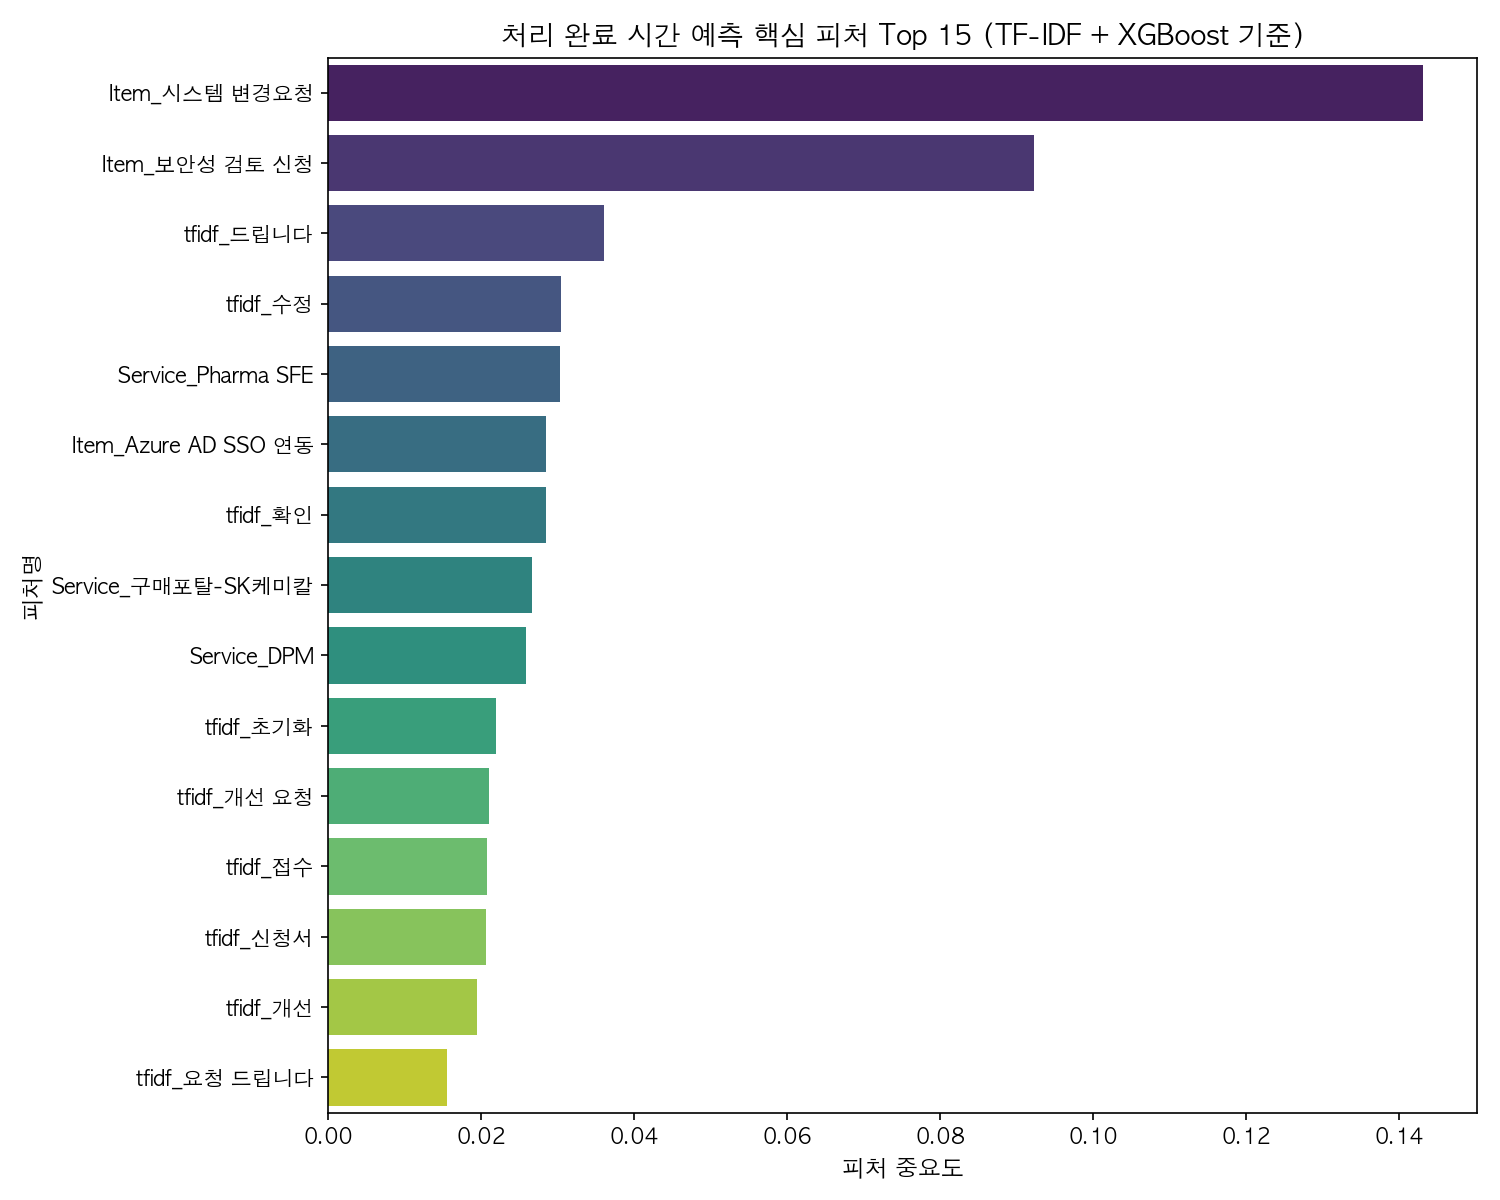
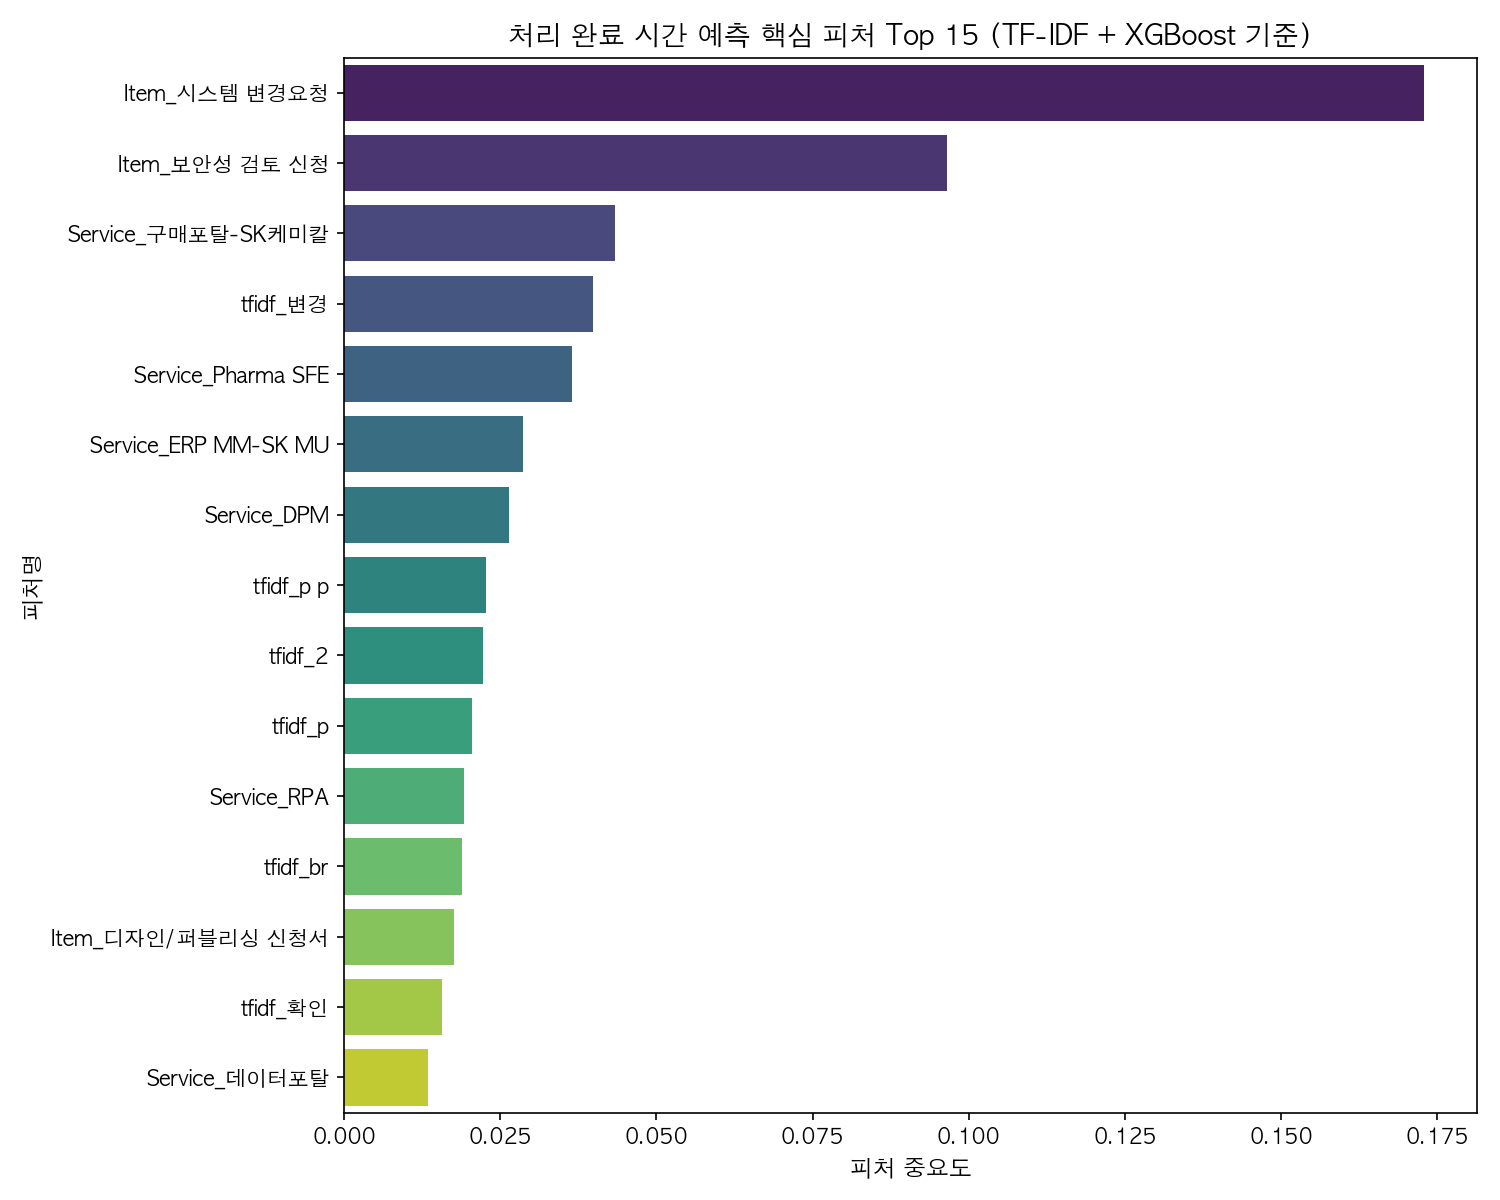
Refine item features and merge descriptions

diff --git a/config.py b/config.py
@@ -9,20 +9,13 @@ DATA_FILE = "sc_req_item.csv"
 # 노란색(정형)으로 선정한 컬럼입니다. 범주형/숫자형을 모두 넣을 수 있습니다.
 STRUCTURED_COLUMNS = [
     "Item",
-    "Service",
-    "State",
-    "Stage",
-    "Approval",
-    "Assignment group",
-    "Work time(Hour)",
-    "Updates",
+    "Service"
 ]
 
 # 주황색(비정형)으로 선정한 텍스트 컬럼입니다. 여러 컬럼은 공백으로 합쳐서 사용합니다.
 TEXT_COLUMNS = [
     "Short description",
-    "Description",
-    "HTML Description",
+    "merged_description",
 ]
 
 # 처리시간 타겟 생성에 사용할 원본 컬럼입니다.

diff --git a/data_loader.py b/data_loader.py
@@ -44,6 +44,12 @@ def load_and_split_data(
         raise FileNotFoundError(f"데이터 파일 '{file_path}'을 찾을 수 없습니다. 먼저 데이터를 준비해주세요.")
 
     df = pd.read_csv(file_path)
+    
+    # Description과 Common html description 컬럼을 하나의 컬럼으로 병합
+    df['merged_description'] = (
+        df['Description'].fillna('').astype(str) + ' ' + 
+        df['Common html description'].fillna('').astype(str)
+    )
 
     if duration_seconds_col in df.columns:
         duration_seconds = (

diff --git a/report_summary.md b/report_summary.md
@@ -4,8 +4,8 @@
 
 ## 0. 사용 컬럼
 
-* 정형(노란색) 컬럼: `Item, Service, State, Stage, Approval, Assignment group, Work time(Hour), Updates`
-* 비정형(주황색) 컬럼: `Short description, Description, HTML Description`
+* 정형(노란색) 컬럼: `Item, Service`
+* 비정형(주황색) 컬럼: `Short description, merged_description`
 * 타겟: 원본 `complte duration` 컬럼의 처리시간(seconds)을 사용합니다. 모델 내부에서는 hours로 변환해 학습하고, 결과는 초/분/시간 단위 MAE/RMSE로 해석합니다.
 
 ## 1. 모델별 성능 비교표
@@ -13,42 +13,42 @@
 | 모델 조합 | MAE (초/분/시간) | RMSE (초/분/시간) | R² Score (결정계수) | 학습시간 |
 | :--- | :---: | :---: | :---: | :---: |
 | **[TF-IDF 계열]** | | | | |
-| TF-IDF + Ridge | 529062초 / 8817.69분 (146.96시간) | 1149900초 / 19165.00분 (319.42시간) | 0.1992 | 0.4초 |
-| TF-IDF + Random Forest | 536595초 / 8943.24분 (149.05시간) | 1320311초 / 22005.18분 (366.75시간) | -0.0557 | 1.5초 |
-| TF-IDF + XGBoost | 541742초 / 9029.03분 (150.48시간) | 1251017초 / 20850.28분 (347.50시간) | 0.0522 | 3.0초 |
-| TF-IDF + LightGBM | 541010초 / 9016.83분 (150.28시간) | 1204230초 / 20070.49분 (334.51시간) | 0.1217 | 2.9초 |
+| TF-IDF + Ridge | 525191초 / 8753.18분 (145.89시간) | 1145826초 / 19097.10분 (318.29시간) | 0.2049 | 0.0초 |
+| TF-IDF + Random Forest | 508047초 / 8467.46분 (141.12시간) | 1245782초 / 20763.03분 (346.05시간) | 0.0601 | 0.7초 |
+| TF-IDF + XGBoost | 539970초 / 8999.51분 (149.99시간) | 1247731초 / 20795.51분 (346.59시간) | 0.0572 | 0.2초 |
+| TF-IDF + LightGBM | 545443초 / 9090.72분 (151.51시간) | 1217102초 / 20285.03분 (338.08시간) | 0.1029 | 0.3초 |
 | **[KoBERT 계열]** | | | | |
-| KoBERT + Ridge | 764740초 / 12745.67분 (212.43시간) | 1521361초 / 25356.01분 (422.60시간) | -0.4017 | 1.5초 |
-| KoBERT + Random Forest | 542167초 / 9036.12분 (150.60시간) | 1240542초 / 20675.70분 (344.59시간) | 0.0680 | 24.8초 |
-| KoBERT + XGBoost | 532728초 / 8878.80분 (147.98시간) | 1212333초 / 20205.55분 (336.76시간) | 0.1099 | 0.8초 |
-| KoBERT + LightGBM | 531262초 / 8854.36분 (147.57시간) | 1175683초 / 19594.72분 (326.58시간) | 0.1629 | 0.6초 |
+| KoBERT + Ridge | 748543초 / 12475.71분 (207.93시간) | 1492522초 / 24875.36분 (414.59시간) | -0.3491 | 0.0초 |
+| KoBERT + Random Forest | 516260초 / 8604.34분 (143.41시간) | 1175942초 / 19599.04분 (326.65시간) | 0.1625 | 18.0초 |
+| KoBERT + XGBoost | 521111초 / 8685.18분 (144.75시간) | 1156673초 / 19277.89분 (321.30시간) | 0.1897 | 0.7초 |
+| KoBERT + LightGBM | 539649초 / 8994.15분 (149.90시간) | 1184222초 / 19737.04분 (328.95시간) | 0.1507 | 0.5초 |
 
 ## 2. 주요 분석 결과 요약
 
-* **운영 추천 모델(낮은 MAE 기준)**: **TF-IDF + Ridge** 모델이 **MAE = 529062초 / 8817.69분**(R² = 0.1992)으로 평균 절대 오차가 가장 낮았습니다.
-* **설명력 최고 모델(R² 기준)**: **TF-IDF + Ridge** 모델이 **R² = 0.1992**를 기록했습니다.
-* **TF-IDF vs KoBERT 평균 비교**: KoBERT 계열의 평균 MAE는 TF-IDF 계열 대비 약 **10.36% 높았습니다**. 실제 운영에서는 정확도뿐 아니라 KoBERT 임베딩 추출 비용, GPU/CPU 환경, 배포 지연시간을 함께 고려해야 합니다.
+* **운영 추천 모델(낮은 MAE 기준)**: **TF-IDF + Random Forest** 모델이 **MAE = 508047초 / 8467.46분**(R² = 0.0601)으로 평균 절대 오차가 가장 낮았습니다.
+* **설명력 최고 모델(R² 기준)**: **TF-IDF + Ridge** 모델이 **R² = 0.2049**를 기록했습니다.
+* **TF-IDF vs KoBERT 평균 비교**: KoBERT 계열의 평균 MAE는 TF-IDF 계열 대비 약 **9.77% 높았습니다**. 실제 운영에서는 정확도뿐 아니라 KoBERT 임베딩 추출 비용, GPU/CPU 환경, 배포 지연시간을 함께 고려해야 합니다.
 * **해석 가능성**: 업무 현업과 원인 분석을 같이 해야 한다면 TF-IDF + 트리 계열 모델은 중요한 단어/정형 속성을 바로 확인할 수 있어 설명이 쉽습니다. KoBERT는 문맥 반영력이 장점이지만 개별 피처 해석은 상대적으로 어렵습니다.
 
 ## 3. 처리 시간 예측에 기여도가 높은 핵심 피처 (Top 15)
 
 아래 목록은 TF-IDF + XGBoost 기준, 처리 시간 예측에 가장 크게 기여한 피처(정형 속성 및 주요 단어)들입니다.
 
-1. **Item_시스템 변경요청** (중요도: 0.1431)
-2. **Item_보안성 검토 신청** (중요도: 0.0923)
-3. **tfidf_드립니다** (중요도: 0.0361)
-4. **tfidf_수정** (중요도: 0.0304)
-5. **Service_Pharma SFE** (중요도: 0.0304)
-6. **Item_Azure AD SSO 연동** (중요도: 0.0285)
-7. **tfidf_확인** (중요도: 0.0284)
-8. **Service_구매포탈-SK케미칼** (중요도: 0.0267)
-9. **Service_DPM** (중요도: 0.0259)
-10. **tfidf_초기화** (중요도: 0.0219)
-11. **tfidf_개선 요청** (중요도: 0.0211)
-12. **tfidf_접수** (중요도: 0.0208)
-13. **tfidf_신청서** (중요도: 0.0207)
-14. **tfidf_개선** (중요도: 0.0194)
-15. **tfidf_요청 드립니다** (중요도: 0.0156)
+1. **Item_시스템 변경요청** (중요도: 0.1728)
+2. **Item_보안성 검토 신청** (중요도: 0.0965)
+3. **Service_구매포탈-SK케미칼** (중요도: 0.0434)
+4. **tfidf_변경** (중요도: 0.0399)
+5. **Service_Pharma SFE** (중요도: 0.0364)
+6. **Service_ERP MM-SK MU** (중요도: 0.0287)
+7. **Service_DPM** (중요도: 0.0265)
+8. **tfidf_p p** (중요도: 0.0228)
+9. **tfidf_2** (중요도: 0.0223)
+10. **tfidf_p** (중요도: 0.0204)
+11. **Service_RPA** (중요도: 0.0193)
+12. **tfidf_br** (중요도: 0.0189)
+13. **Item_디자인/퍼블리싱 신청서** (중요도: 0.0176)
+14. **tfidf_확인** (중요도: 0.0157)
+15. **Service_데이터포탈** (중요도: 0.0135)
 
 ## 4. 추가로 확정하면 좋은 사항
 
